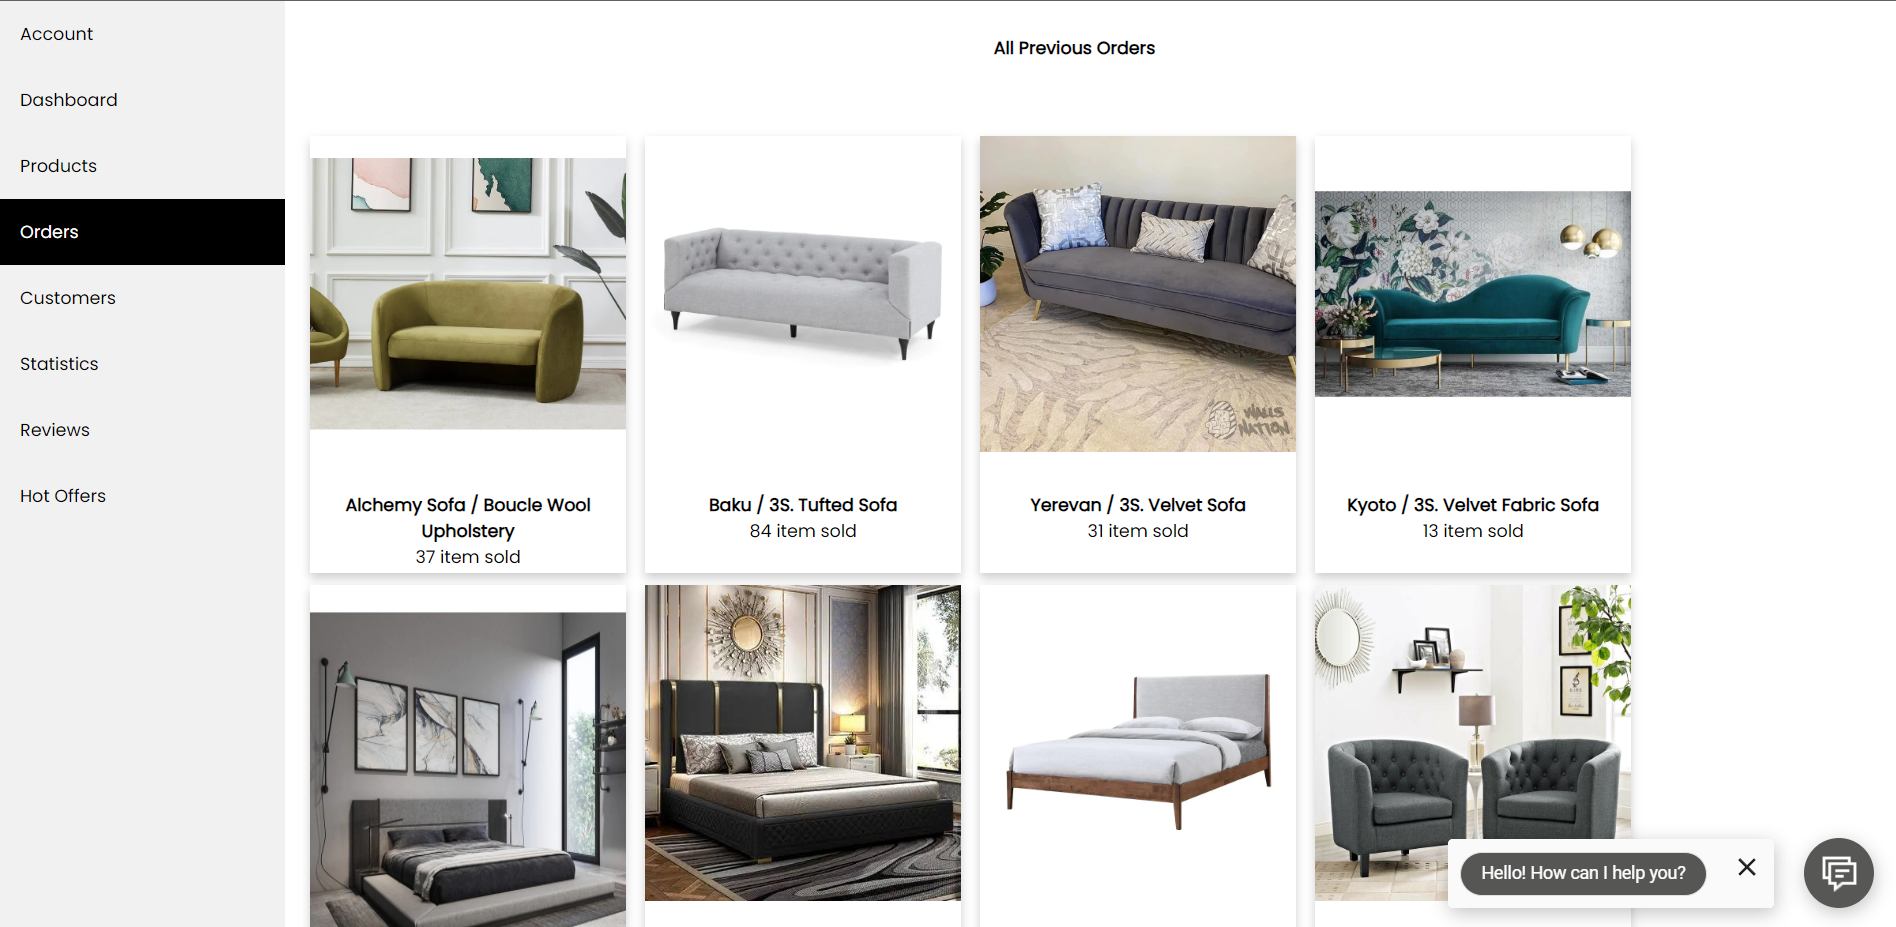
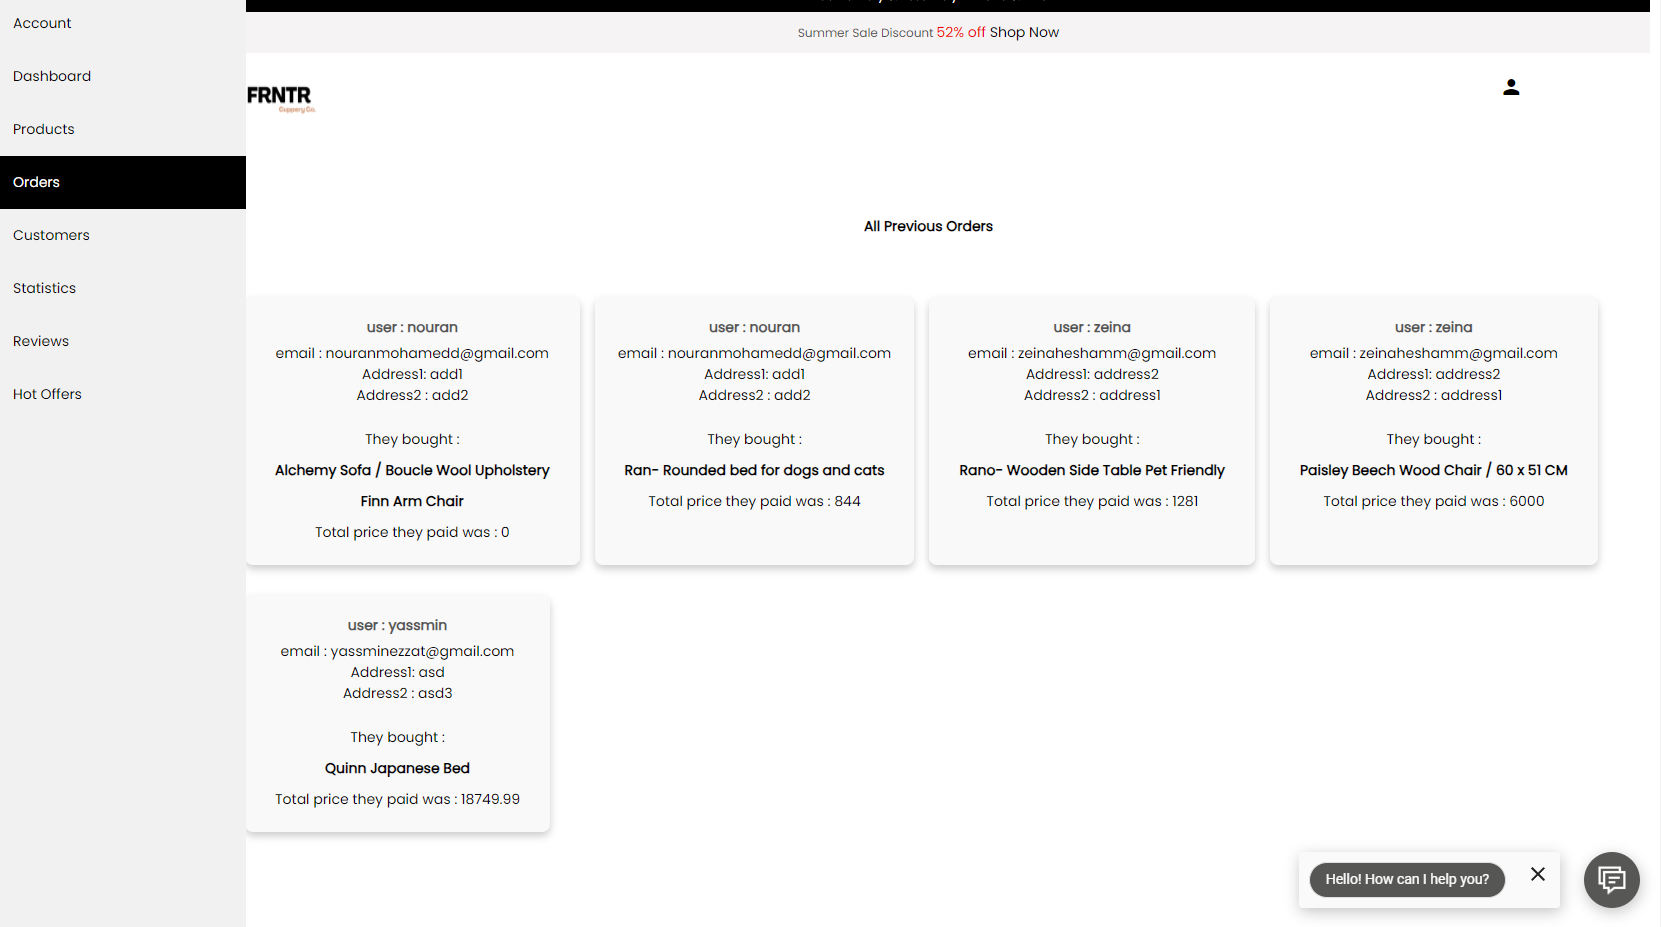
changes orders description

diff --git a/README.md b/README.md
@@ -108,7 +108,7 @@ Page Description: The page uses the same EJS file as the add product page, with 
 ![Edit Product](readmescreenshots/editproduct.png)
 
 ### Orders Page:
-Page Description: Displays all previous orders and the number of times each product has been sold.
+Page Description: Displays all the orders done with the address details, cart details and total amount paid.
 
 - **Unique Aspects**: The page showcases hover animations on all products, displaying different angles for each item.
 
